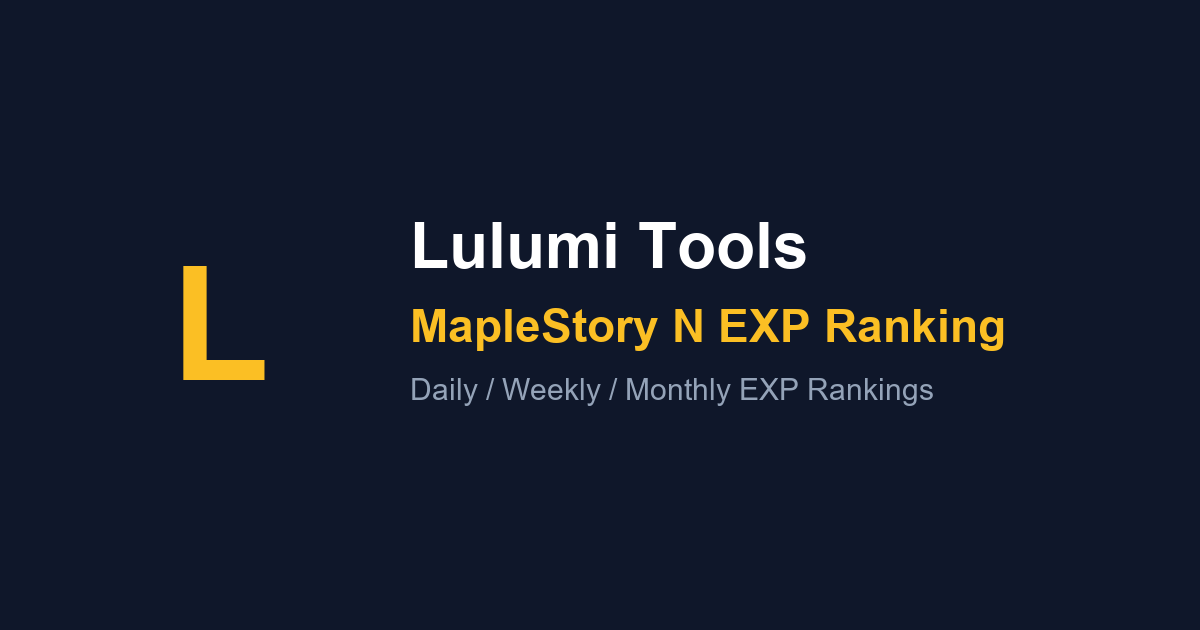
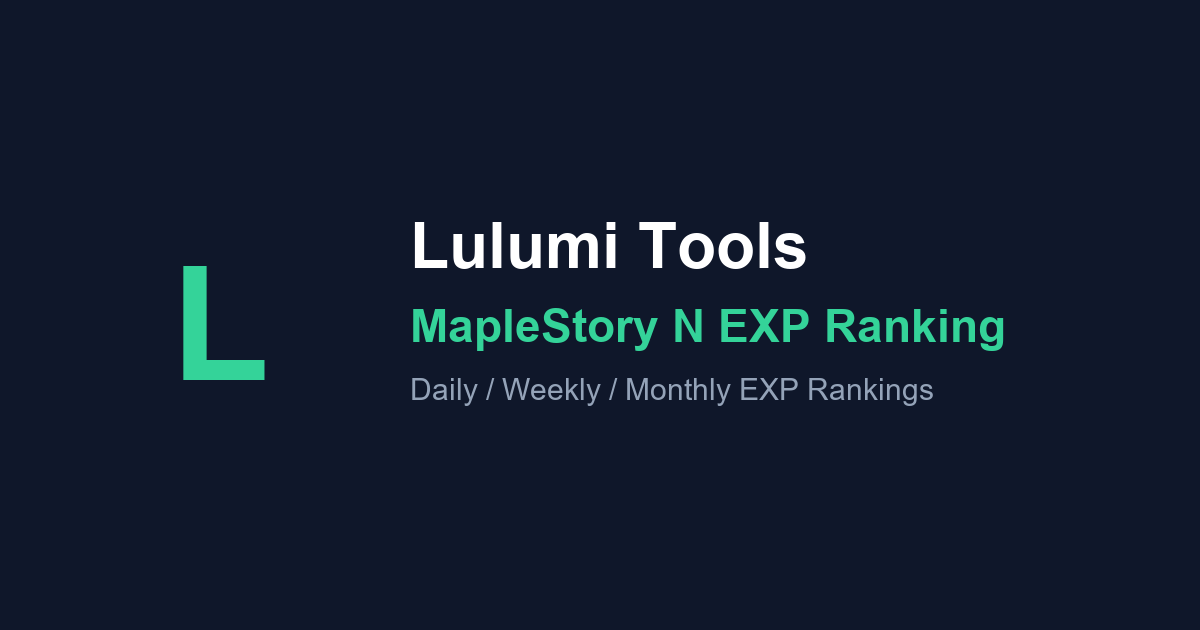
feat(web): switch brand accent from amber to green (#34d399)
Change SEO asset generator and favicon.svg accent color from
amber #fbbf24 to emerald #34d399 (site's existing increase-value
accent color); background #0f172a and layout are unchanged.
Regenerated favicon.ico, apple-touch-icon.png, og.png accordingly.

Changed region(s): [[0.3392, 0.4825, 0.8633, 0.573], [0.1542, 0.4222, 0.2467, 0.6032]]

diff --git a/exp_ranking/web/scripts/generate-seo-assets.py b/exp_ranking/web/scripts/generate-seo-assets.py
@@ -32,7 +32,7 @@ from PIL import Image, ImageDraw, ImageFont
 # ---------------------------------------------------------------------------
 
 BG_COLOR = (15, 23, 42)  # #0f172a (slate-950, matches theme-color)
-ACCENT_COLOR = (251, 191, 36)  # #fbbf24 (amber-400)
+ACCENT_COLOR = (52, 211, 153)  # #34d399 (emerald-400, site accent)
 WHITE = (255, 255, 255)
 MUTED = (148, 163, 184)  # #94a3b8 (slate-400)
 
